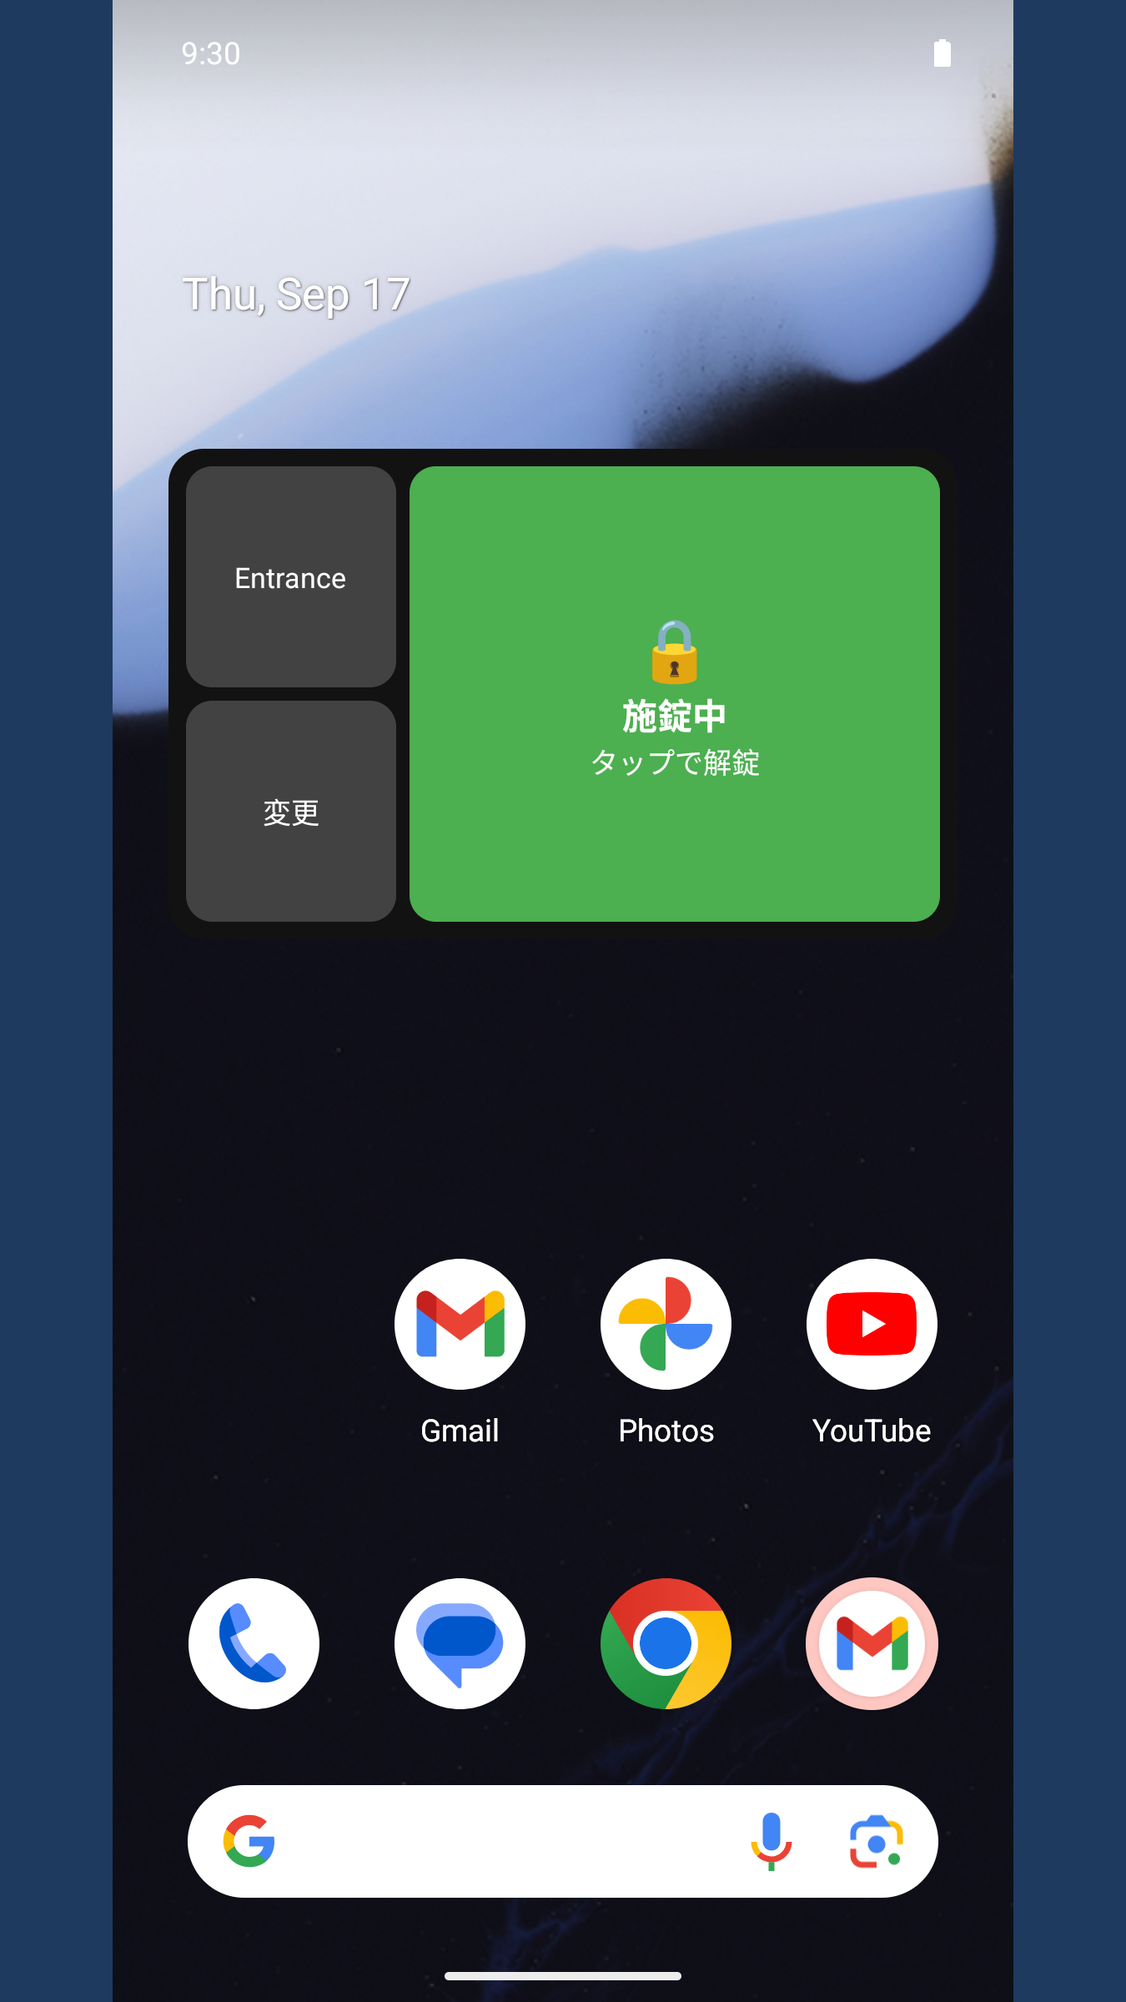
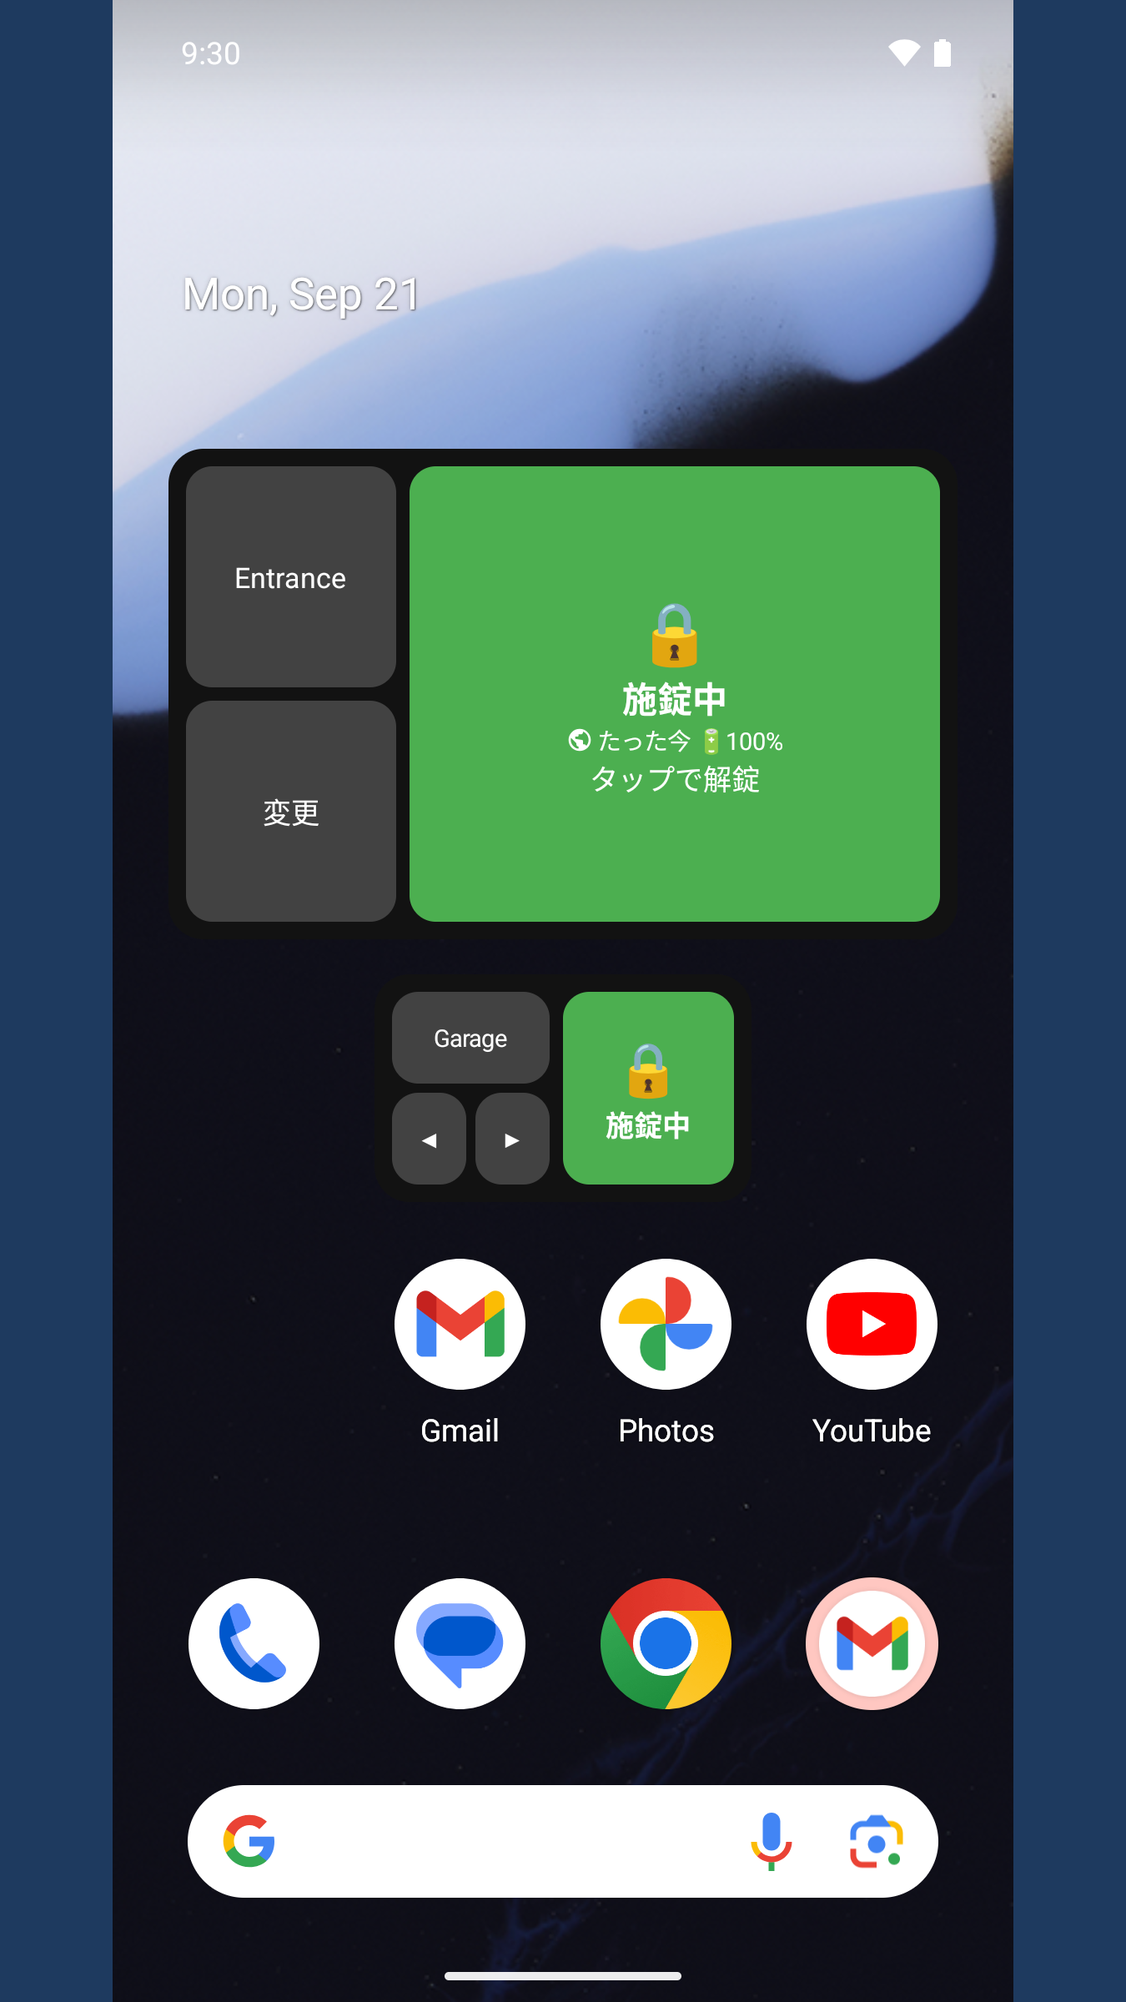
docs: 📸 0.13.0の掲載スクリーンショットを撮り直す (BL-197 / BL-198)

diff --git a/docs/records/managed/BACKLOG.md b/docs/records/managed/BACKLOG.md
@@ -5,30 +5,61 @@
 
 <!-- COPILOT_RECORDS:BEGIN -->
 ```yaml
-- id: BL-196
+- id: BL-198
   区分: 人手検証
   タスク内容: >-
-    0.13.0（`versionCode 8` / `wear 1006`）の署名付きAAB×2を、Play Consoleのクローズドテストの
-    両トラック（電話・タブレット系トラックとWear OS専用トラック）へアップロードして公開する。
-    成果物は`mobile/build/outputs/bundle/release/mobile-release.aab`と
-    `wear/build/outputs/bundle/release/wear-release.aab`で、2026-09-21に
-    `scripts/release-build.bat -VersionName 0.13.0`でビルド済み。
-    「このリリースの新機能」欄へは`docs/RELEASE_NOTES.md`の0.13.0「ストア掲載用の要約」
-    （491/500文字）をそのまま転記する。本バージョンはBLE（`BLUETOOTH_SCAN` /
-    `BLUETOOTH_CONNECT` / `ACCESS_FINE_LOCATION`）と通知（`POST_NOTIFICATIONS`）の権限が
-    増えるため、**アップロードの前にBL-154のデータセーフティ申告と権限の用途説明を更新する**。
-    転記元は`docs/store/STORE_LISTING.md`「アプリが使う権限」（2026-09-21に追記済み）。
+    Wear OS用の掲載スクリーンショット6枚（`docs/store/images/screenshots/wear_1`〜`wear_6`）を
+    0.13.0の表示へ撮り直す。現行は2026-09-06撮影で、0.13.0でタイルに加わった経路の印
+    （🔗＝Bluetooth / 🌐＝インターネット）と最終取得時刻が写っていない。
+    2026-09-21にWear OSエミュレータ（AVD `wearos`、Wear OS 5 / 384x384）で撮影を試み、
+    `SesameWearDebugReceiver`でデバイス一覧と状態（`route BLE`）を注入してタイルを表示するところ
+    までは成功したが、**タイルの右チップが常に「スマホ未接続」表示になるため掲載には使えない**
+    （2台のエミュレータはペア設定できない。`docs/INSTALL.md`「1.8」）。
+    Pixel Watch 2実機をadb接続して撮り直す。撮影手順はSkill `realmachine-verification`第4節、
+    加工と保存先はSkill `store-screenshot-capture`。
+    2026-09-21に実機で`wear_2_tile_locked.png`（全施錠中）と`wear_3_tile_unlocked.png`（全解錠中）を
+    撮り直し済み。どちらも経路の印（🌐）と「たった今」が写っている。`wear_5_unlock_confirm.png`は
+    撮り直した画像が既存とバイト単位で一致したため差し替え不要（0.13.0でも表示が変わっていない）。
+    **残りは`wear_1_complication.png`（文字盤の編集が必要）、`wear_4_tile_mixed.png`
+    （1台だけ解錠した状態を作る必要があり、タイルの対象切り替えの反映が不安定で断念）、
+    `wear_6_device_select.png`（実デバイス名が写るためモザイクか、ダミーのデバイス一覧が必要）の3点。**
+    ダミーのデバイス一覧は`SesameWearDebugReceiver`の`--es devices`で注入できるが、
+    2026-09-21の実機では`devices injected: count=2`まで成功しながらタイルの表示名がuuidのままで、
+    名前が反映されなかった（個別の状態注入は反映される）。ここを解決すれば実鍵を動かさずに
+    残り3点を作れる。
+  優先度: P3
+  状態: 進行中
+  担当: ユーザー
+  完了条件: >-
+    タイルの各状態・解錠確認・デバイス選択・コンプリケーションが0.13.0の表示で撮り直され、
+    `docs/store/images/screenshots/` と Play ConsoleのWear OS用の枠へ反映されていること。
+    2026-09-21にタイルの施錠中・解錠中の2点を反映済みで、コンプリケーション・一部解錠・
+    デバイス選択の3点が未実施
+  根拠: >-
+    Wear OS実機を要するため人手検証とする。エミュレータで代替できないことは2026-09-21に確認済み
+  依存: []
+
+- id: BL-197
+  区分: 人手検証
+  タスク内容: >-
+    0.13.0の配信（2026-09-21に両トラックで公開中）を受けて、Play Consoleのストア掲載情報を
+    差し替える。スマートフォン用スクリーンショットは2026-09-21に7枚へ撮り直し済み
+    （`docs/store/images/screenshots/phone_1_widget_locked.png`〜`phone_7_help.png`）。
+    Play Console側の旧6枚を削除してから新しい7枚をこの番号順に投入する
+    （旧`phone_4_widget_config` / `phone_5_credentials` / `phone_6_help`はリポジトリから削除済み）。
+    「詳細な説明」は`docs/store/STORE_LISTING.md`の更新版（BLE経由の操作・経路の表示・電池残量・
+    診断ログ・「アプリが使う権限」を追記済み、2548/4000文字）を転記する。
+    **リリースの審査とは別の送信で行う**（掲載情報の差し戻しでアプリ更新の配信まで止めないため）。
   優先度: P2
   状態: 未着手
   担当: ユーザー
   完了条件: >-
-    両トラックで0.13.0が「公開中」になり、テスターの端末へ配信されていること
+    Play Consoleの掲載ページに、新しいスマートフォン用7枚と更新後の「詳細な説明」が反映されていること
   根拠: >-
     Play Consoleの操作はブラウザ専用でエージェントが実行できない
-    （rules/guardrails-unified.v1.md セクション12.2）。0.12.0の配信（BL-155）と同じ手順で、
-    現在地は`docs/store/PLAY_CONSOLE_STEPS.local.md`が持つ
-  依存:
-    - BL-154
+    （rules/guardrails-unified.v1.md セクション12.2）。手順の現在地は
+    `docs/store/PLAY_CONSOLE_STEPS.local.md`「ストア掲載情報の変更手順」が持つ
+  依存: []
 
 - id: BL-195
   区分: 人手検証
@@ -51,36 +82,6 @@
   根拠: >-
     2026-09-21のBL-193の実機検証で観測した。Sesame実機とHub 3を含む電波環境が要り、
     JVM上の単体テストでは再現できないため人手検証とする
-  依存: []
-
-- id: BL-154
-  区分: 人手検証
-  タスク内容: >-
-    BLE直接操作（BL-152）の配信にあたり、Google Playのデータセーフティ申告・権限の用途説明・
-    ストア掲載情報を更新する。追加される権限はBLUETOOTH_SCAN / BLUETOOTH_CONNECT
-    （API 31以上）とACCESS_FINE_LOCATION（`android:maxSdkVersion="30"`で旧端末限定）。
-    位置情報権限は旧端末限定でも申告の対象になりうるため、Play Consoleの質問に沿って
-    「位置情報を収集・共有しない（BLEスキャンのためだけに宣言している）」ことを説明する。
-    docs/USER_GUIDE.md と docs/RELEASE_NOTES.md への記載は2026-09-19に完了済みで、
-    docs/store/STORE_LISTING.md への権限の用途説明の追記も2026-09-21に完了した
-    （「アプリが使う権限」節。Play Consoleの権限申告・データセーフティ欄への転記元になる）。
-    残りは Play Console 上の操作だけ。
-    2026-09-20のBL-190で POST_NOTIFICATIONS も追加したため、こちらも申告・説明の対象に含める
-    （経路が切り替わったことを知らせる通知にだけ使い、収集・共有は行わない）。
-  優先度: P3
-  状態: 未着手
-  担当: ユーザー
-  完了条件: >-
-    データセーフティ申告と権限の用途説明が更新され、審査を通過して配信されていること。
-    利用者向けドキュメントにBLE経由で動作する条件（スマートフォンがSesameの電波圏内にあること）が
-    記載されていること。
-    後者は`docs/USER_GUIDE.md`「近くにあるときはBluetoothで操作する」で満たしている
-    （2026-09-21確認）。残るのはPlay Consoleの操作だけ
-  根拠: >-
-    Play Consoleの操作を伴うため自律ループ実行モードでは実行できない
-    （rules/guardrails-unified.v1.md セクション12.2）。DESIGN.md「BLE直接操作の併用方針」の
-    段階5に対応する。BL-152・BL-153の実装は2026-09-19に完了しており、依存は解消している
-    （申告の対象となる権限は mobile/src/main/AndroidManifest.xml で確定済み）。
   依存: []
 
 - id: BL-149

diff --git a/docs/store/README.md b/docs/store/README.md
@@ -18,12 +18,13 @@ Google Play Console へ提出する掲載情報を、このディレクトリで
 
 | ファイル | 内容 | サイズ |
 | --- | --- | --- |
-| `phone_1_widget_locked.png` | ホーム画面ウィジェット（施錠中、タップで解錠） | 1350x2400 |
+| `phone_1_widget_locked.png` | ホーム画面ウィジェット（施錠中、タップで解錠）。2x1と4x2を並べて表示 | 1350x2400 |
 | `phone_2_widget_unlock_confirm.png` | ウィジェットからの解錠確認ダイアログ | 1350x2400 |
-| `phone_3_widget_unlocked.png` | ホーム画面ウィジェット（解錠中、タップで施錠） | 1350x2400 |
-| `phone_4_widget_config.png` | ウィジェットの操作対象を選ぶ画面（全デバイス／個別） | 1350x2400 |
-| `phone_5_credentials.png` | 資格情報の設定画面（登録済みデバイス一覧と追加フォーム） | 1350x2400 |
-| `phone_6_help.png` | ヘルプのメニュー（値の取得方法・デモ・ウォッチ・ウィジェット） | 1350x2400 |
+| `phone_3_widget_unlocked.png` | ホーム画面ウィジェット（解錠中、タップで施錠）。2台の状態が混在した表示 | 1350x2400 |
+| `phone_4_device_list.png` | アプリ主画面（Sesameごとのカード。状態・電池・角度・最終取得時刻・経路・Bluetoothの到達状況） | 1350x2400 |
+| `phone_5_menu.png` | 右上の「⋮」メニュー（操作の経路・Bluetoothで直接操作・通知・ヘルプ・診断ログ） | 1350x2400 |
+| `phone_6_device_edit.png` | Sesameの追加・編集画面（表示名・uuid・apikey・secretKey） | 1350x2400 |
+| `phone_7_help.png` | ヘルプのメニュー（値の取得方法・デモ・ウォッチ・ウィジェット・Bluetooth） | 1350x2400 |
 | `wear_1_complication.png` | ウォッチフェイスのコンプリケーション（施錠状態の表示） | 384x384 |
 | `wear_2_tile_locked.png` | タイル（全施錠中、タップで全解錠） | 384x384 |
 | `wear_3_tile_unlocked.png` | タイル（全解錠中、タップで全施錠） | 384x384 |
@@ -39,14 +40,28 @@ Google Play Console へ提出する掲載情報を、このディレクトリで
   モックAPI（`scripts/mock-sesame-api.py`）で作っており、実Sesameデバイス・実資格情報は
   使っていません。
 - ファイル名の番号はPlay Consoleへ投入する順序に対応します。スマートフォン用は「ウィジェットの
-  状態表示 → 操作の確認 → 設定 → 資格情報 → ヘルプ」、Wear OS用は「状態表示 → タイルの
+  状態表示 → 操作の確認 → アプリ画面 → 設定 → ヘルプ」、Wear OS用は「状態表示 → タイルの
   各状態 → 操作の確認 → 設定」の流れで並べています。
-- スマートフォン用は2026-09-18に全点を撮り直しました。0.11.0のホーム画面ウィジェット（BL-121〜
-  BL-123）を追加し、ヘルプのメニュー化（BL-113）とウィジェット項目の追加（BL-124）を反映して
-  います。
-- Wear OS用の6点は2026-09-06撮影のものを継続利用します。以降のwear側の変更は文言・色のcoreへの
-  移設（BL-119、表示は不変）と、登録0台のときだけ出るデモ説明文の折り返し修正（BL-114）だけで、
-  この6点の画面には影響しないことを差分で確認済みです。
+- スマートフォン用は2026-09-21に7点すべてを撮り直しました（0.13.0）。スマートフォン画面の
+  カードUIへの刷新（BL-173〜BL-188）、「⋮」メニューへの集約、Sesameの追加・編集画面の独立、
+  ウィジェットの2x1化と経路・電池の表示（BL-189〜BL-195）を反映しています。旧構成の
+  `phone_4_widget_config.png` / `phone_5_credentials.png` / `phone_6_help.png` は削除しました。
+- `phone_4_device_list.png` のカードに出る「Bluetooth：圏内（たった今確認）」と経路の
+  「Bluetooth」は、BLEの到達実績の保存値（`sesami_wear_ble_reachability.xml`）と状態の保存値
+  （`sesami_wear_lock_state.xml`）へ、圏内・経路BLEの値を書き込んで再現したものです。
+  エミュレータの近くに実Sesameが無く、そのままでは「圏外」表示になるためで、Sesameの
+  電波圏内にいる利用者が実際に見る表示と同じです（施錠・解錠の状態をモックAPIで作るのと同じ扱い）。
+- Wear OS用のうち `wear_2_tile_locked.png` と `wear_3_tile_unlocked.png` は、2026-09-21に
+  Pixel Watch 2実機で撮り直しました。0.13.0で加わった経路の印（🌐）と最終取得時刻（「たった今」）が
+  写っています。撮影はデバッグ版のタイルから実際に施錠・解錠して行い、終了後に全デバイスの施錠を
+  確認しています（対象は「全デバイス」のため、画面にデバイス名は出ません）。
+  `wear_5_unlock_confirm.png` は0.13.0でも表示が変わっておらず、撮り直した画像が既存とバイト単位で
+  一致したためそのままです。
+- 残る `wear_1_complication.png` / `wear_4_tile_mixed.png` / `wear_6_device_select.png` は
+  2026-09-06撮影のままです。コンプリケーションは文字盤の編集、一部解錠は1台だけを解錠した状態、
+  デバイス選択は実デバイス名が写る画面で、いずれも今回の手順では用意できませんでした（BL-198）。
+  Wear OSエミュレータ（AVD `wearos`）での撮影も試しましたが、スマートフォンのエミュレータと
+  ペア設定できずタイルが常に「スマホ未接続」表示になるため使えません（`docs/INSTALL.md`「1.8」）。
 
 リリースごとの「このリリースの新機能」欄の文面は、このディレクトリではなく
 [../RELEASE_NOTES.md](../RELEASE_NOTES.md) の各バージョンの「ストア掲載用の要約」で管理します。

diff --git a/CHANGELOG.md b/CHANGELOG.md
@@ -7,6 +7,37 @@
 - コード修正1件ごとの実施記録: [docs/records/managed/EXECUTE.md](docs/records/managed/EXECUTE.md)
 - 本ファイル: 上記以外（運用ルール、ドキュメント構成、ガードレールの変更）
 
+## 2026-09-21（0.13.0の配信完了と掲載スクリーンショットの撮り直し）
+
+0.13.0 がクローズドテストの両トラックで公開中になりました。あわせて、スマートフォン用の掲載
+スクリーンショットを 0.13.0 の画面へ全点撮り直しています。
+
+- **BL-196（完了）**: 0.13.0（mobile の `versionCode 8` / wear の `versionCode 1006`）を両トラックへ
+  アップロードし、公開中になりました。
+- **BL-154（完了）**: データセーフティの収集項目は 0.12.0 から変更がなく（`apikey` と `uuid` の2点）、
+  0.13.0 で増えた権限（`BLUETOOTH_SCAN` / `BLUETOOTH_CONNECT` / `ACCESS_FINE_LOCATION` /
+  `POST_NOTIFICATIONS`）について Play Console から用途の説明を求められることはありませんでした。
+  申告の転記元は `docs/store/STORE_LISTING.md`「アプリが使う権限」として残しています。
+- **`docs/store/images/screenshots/`**: スマートフォン用を Android エミュレータで7枚撮り直しました
+  （`phone_1_widget_locked` / `phone_2_widget_unlock_confirm` / `phone_3_widget_unlocked` /
+  `phone_4_device_list` / `phone_5_menu` / `phone_6_device_edit` / `phone_7_help`）。
+  旧構成の `phone_4_widget_config` / `phone_5_credentials` / `phone_6_help` は削除しています。
+  `phone_4_device_list` の「Bluetooth：圏内」と経路「Bluetooth」は、エミュレータの近くに実 Sesame が
+  無いため保存値へ圏内・経路BLEの値を書き込んで再現しました（施錠状態をモック API で作るのと同じ扱いで、
+  Sesame の電波圏内にいる利用者が実際に見る表示です）。
+- **Wear OS 用はタイルの2枚を Pixel Watch 2 実機で撮り直しました。**
+  `wear_2_tile_locked` と `wear_3_tile_unlocked` に、0.13.0 で加わった経路の印と最終取得時刻が
+  写っています。撮影はデバッグ版のタイルから実際に施錠・解錠して行い（ユーザーの判断）、
+  終了後に全デバイスの施錠を確認し、追加したタイルと画面消灯時間、タイルの対象割り当てを
+  すべて元へ戻しています。`wear_5_unlock_confirm` は撮り直した画像が既存とバイト単位で一致した
+  ため差し替えていません（0.13.0 でも表示が変わっていない）。
+  コンプリケーション・一部解錠・デバイス選択の3点は未実施で、**BL-198** に残しています。
+  Wear OS エミュレータ（AVD `wearos`）でも試しましたが、2台のエミュレータをペア設定できず
+  タイルが常に「スマホ未接続」表示になるため使えませんでした。
+- **[docs/store/README.md](docs/store/README.md)** と
+  **[docs/store/STORE_LISTING.md](docs/store/STORE_LISTING.md)** の内訳表・撮影環境・枚数を更新し、
+  Play Console への掲載情報の差し替え作業を **BL-197** として起票しました。
+
 ## 2026-09-21（0.13.0のリリース準備 — リリースノートの確定とストア掲載情報の権限説明）
 
 BLE直接操作を中心とした 0.13.0 を Google Play のクローズドテストへ配信するための準備を行いました。

diff --git a/docs/store/STORE_LISTING.md b/docs/store/STORE_LISTING.md
@@ -127,6 +127,8 @@ Markdownを解釈しないため、転記時は見出し・箇条書きの記法
 
 ## スクリーンショット
 
-スマートフォン用6枚（Androidエミュレータ、2026-09-18撮影）とWear OS用6枚（Pixel Watch 2実機、
-2026-09-06撮影）を [images/screenshots/](images/screenshots/) に用意済みです。内訳と加工内容は
-[README.md](README.md)「ファイル一覧」を参照してください。
+スマートフォン用7枚（Androidエミュレータ、2026-09-21撮影）とWear OS用6枚（Pixel Watch 2実機）を
+[images/screenshots/](images/screenshots/) に用意済みです。内訳と加工内容は
+[README.md](README.md)「ファイル一覧」を参照してください。スマートフォン用は0.13.0の画面へ全点を
+撮り直しています。Wear OS用はタイルの2枚を2026-09-21に撮り直し（経路の印と最終取得時刻を反映）、
+残る3枚は2026-09-06撮影のままです（BL-198）。
